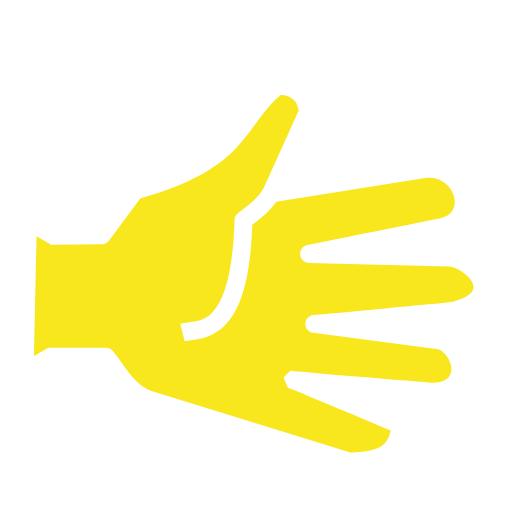
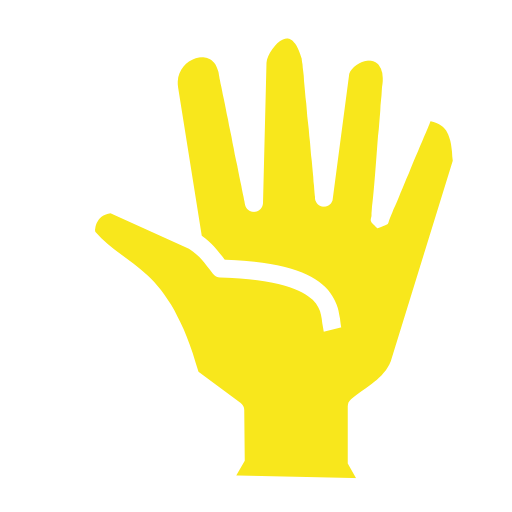
emotes now send to other players

Changed region(s): [[0.0625, 0.0625, 0.9375, 0.9375]]

diff --git a/src/store/socket.js b/src/store/socket.js
@@ -213,6 +213,12 @@ class LiveSession {
       case "pronouns":
         this._updatePlayerPronouns(params);
         break;
+      case "emote":
+        this._updateEmote(params);
+        break;
+      case "emoteType":
+        this._updateEmoteType(params);
+        break;
     }
   }
 
@@ -267,6 +273,8 @@ class LiveSession {
       isDead: player.isDead,
       isVoteless: player.isVoteless,
       pronouns: player.pronouns,
+      isEmote: player.isEmote,
+      emoteType: player.emoteType,
       ...(player.role && player.role.team === "traveler"
         ? { roleId: player.role.id }
         : {}),
@@ -335,7 +343,15 @@ class LiveSession {
       const player = players[x];
       const { roleId } = state;
       // update relevant properties
-      ["name", "id", "isDead", "isVoteless", "pronouns"].forEach((property) => {
+      [
+        "name",
+        "id",
+        "isDead",
+        "isVoteless",
+        "pronouns",
+        "isEmote",
+        "emoteType",
+      ].forEach((property) => {
         const value = state[property];
         if (player[property] !== value) {
           this._store.commit("players/update", { player, property, value });
@@ -537,6 +553,65 @@ class LiveSession {
     this._send("pronouns", [index, value]);
   }
 
+  /**
+   * Update isEmote based on incoming data.
+   * @param player
+   * @param value
+   * @param isFromSockets
+   */
+  sendIsEmote({ player, value, isFromSockets }) {
+    if (isFromSockets || this._store.state.session.playerId !== player.id)
+      return;
+    const index = this._store.state.players.players.indexOf(player);
+    this._send("emote", [index, value]);
+  }
+
+  /**
+   * Update EmoteType based on incoming data.
+   * @param player
+   * @param value
+   * @param isFromSockets
+   */
+  sendEmoteType({ player, value, isFromSockets }) {
+    if (isFromSockets || this._store.state.session.playerId !== player.id)
+      return;
+    const index = this._store.state.players.players.indexOf(player);
+    this._send("emoteType", [index, value]);
+  }
+
+  /**
+   * Update a hand raised state based on incoming data.
+   * @param index
+   * @param value
+   * @private
+   */
+  _updateEmote([index, value]) {
+    const player = this._store.state.players.players[index];
+
+    this._store.commit("players/update", {
+      player,
+      property: "isEmote",
+      value,
+      isFromSockets: true,
+    });
+  }
+
+  /**
+   * Update a emote type state based on incoming data.
+   * @param index
+   * @param value
+   * @private
+   */
+  _updateEmoteType([index, value]) {
+    const player = this._store.state.players.players[index];
+
+    this._store.commit("players/update", {
+      player,
+      property: "emoteType",
+      value,
+      isFromSockets: true,
+    });
+  }
   /**
    * Update a pronouns based on incoming data.
    * @param index
@@ -946,6 +1021,10 @@ export default (store) => {
       case "players/update":
         if (payload.property === "pronouns") {
           session.sendPlayerPronouns(payload);
+        } else if (payload.property === "isEmote") {
+          session.sendIsEmote(payload);
+        } else if (payload.property === "emoteType") {
+          session.sendEmoteType(payload);
         } else {
           session.sendPlayer(payload);
         }

diff --git a/src/components/Player.vue b/src/components/Player.vue
@@ -429,10 +429,7 @@ export default {
     position: absolute;
     width: 60%;
     height: 60%;
-    transform: rotateX(0deg);
-    transform-origin: top left;
     cursor: pointer;
-    transition: transform 200ms ease-in-out;
     z-index: 2;
     pointer-events: none;
     filter: drop-shadow(0 0 5px rgba(0,0,0,0.8));
@@ -448,9 +445,6 @@ export default {
       left: 38%;
       top: -30%;
       opacity: 0;
-      transform: perspective(400px) scale(1.5);
-      transform-origin: top left;
-      transition: all 200ms;
       pointer-events: none;
     }
     #townsquare.spectator & {
@@ -460,25 +454,28 @@ export default {
 
   &.hand-raised.rock .emote:before {
       background: url("../assets/rock.png") center -10px no-repeat;
+      background-size: auto 100%;
     }
 
   &.hand-raised.paper .emote:before {
     background: url("../assets/paper.png") center -10px no-repeat;
+    background-size: auto 100%;
   }
 
   &.hand-raised.scissors .emote:before {
     background: url("../assets/scissors.png") center -10px no-repeat;
+    background-size: auto 100%;
   }
 
   &.hand-raised.spock .emote:before {
     background: url("../assets/spock-hand.png") center -10px no-repeat;
+    background-size: auto 100%;
   }
 
   &.hand-raised .emote:before {
     opacity: 1;
     top: 0;
     pointer-events: none;
-    transform: perspective(400px) scale(1);
   }
 }
 

diff --git a/src/App.vue b/src/App.vue
@@ -73,7 +73,6 @@ import NightOrderModal from "./components/modals/NightOrderModal";
 import FabledModal from "@/components/modals/FabledModal";
 import VoteHistoryModal from "@/components/modals/VoteHistoryModal";
 import GameStateModal from "@/components/modals/GameStateModal";
-import { faBriefcaseClock, faL } from "@fortawesome/free-solid-svg-icons";
 
 export default {
   components: {
@@ -103,13 +102,15 @@ export default {
   methods: {
     toggleEmote(type, value){
       if (!this.session.playerId) return;
-      const currentPlayer = this.players.find((player) => this.session.playerId);
+      const currentPlayer = this.players.find((player) => this.session.playerId === player.id);
       if (!currentPlayer) return;
-      this.$store.commit("players/update", {
+
+        this.$store.commit("players/update", {
         player: currentPlayer,
         property: "emoteType",
         value: type,
-      })
+      })   
+      
       this.$store.commit("players/update", {
         player: currentPlayer,
         property: "isEmote",
